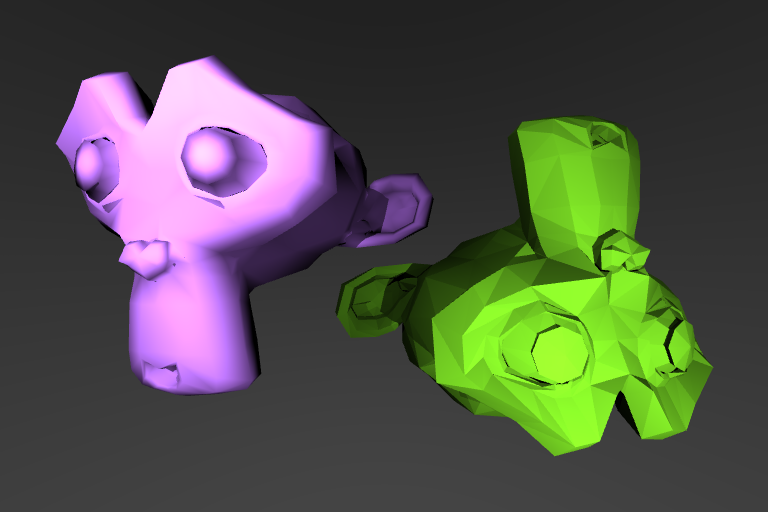
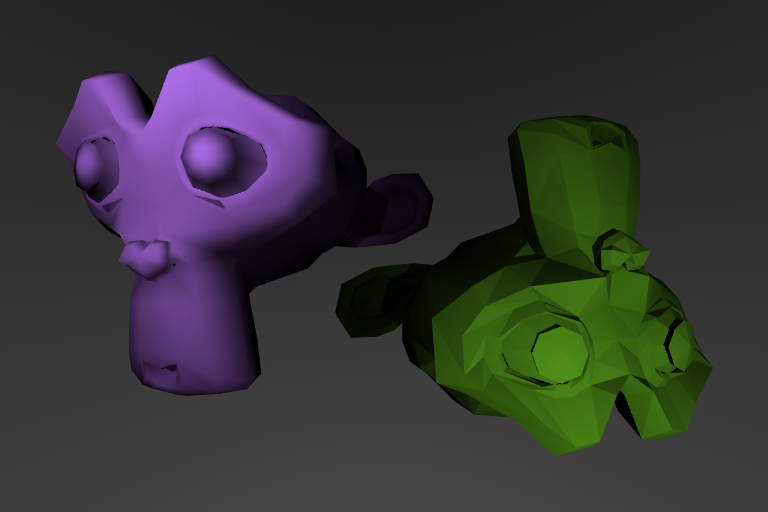
Fixed Suzanne

diff --git a/src/synthese.cpp b/src/synthese.cpp
@@ -142,8 +142,8 @@ void scene6(unsigned int width, unsigned int height) {
     scene.setHighSkyColor(0.1f, 0.1f, 0.1f);
 
     /* ---- Lights ---- */
-    scene.add(new PointLight(White(), Point(-1.0f, 1.0f, 1.0f), 5.0f));
-    scene.add(new PointLight(White(), Point(1.0f, -1.0f, 1.0f), 5.0f));
+    scene.add(new PointLight(White(), Point(-1.0f, 1.0f, 1.0f), 4.0f));
+    scene.add(new PointLight(White(), Point(1.0f, -1.0f, 1.0f), 4.0f));
 
     /* ---- Objects ---- */
     MeshIOData suzanne;
@@ -212,14 +212,14 @@ void scene8(unsigned int width, unsigned int height) {
 
 int main() {
     try {
-        scene1(1024, 512);
-        scene2(1024, 512);
-        scene3(1024, 512);
-        scene4(1024, 512);
-        scene5(1024, 512);
+        // scene1(1024, 512);
+        // scene2(1024, 512);
+        // scene3(1024, 512);
+        // scene4(1024, 512);
+        // scene5(1024, 512);
         scene6(768, 512);
-        scene7(4096, 4096);
-        scene8(1024, 1024);
+        // scene7(4096, 4096);
+        // scene8(1024, 1024);
     } catch(const std::exception& exception) {
         std::cerr << "ERROR : " << exception.what() << '\n';
         return -1;
